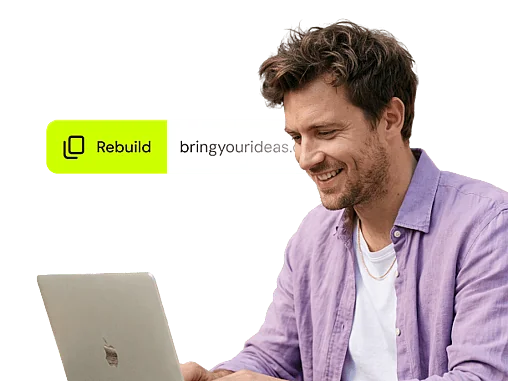
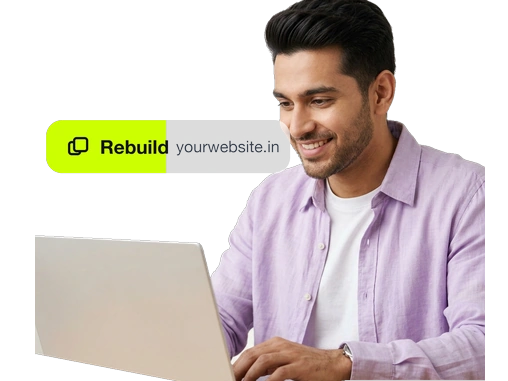
feat: localize cloner url card with stylish Indian entrepreneur, unbranded laptop, and yourwebsite.in URL bar

diff --git a/index.html b/index.html
@@ -1331,12 +1331,12 @@
                       </div>
                     </div>
                     <div class="h-image h-mixed-one-third-card__media h-mixed-one-third-card__desktop-image"><img
-                        class="" style="" src="./assets/images/card-business-seo-desktop.png"
-                        srcset="./assets/images/card-business-seo-desktop.png" alt="Local SEO for Siliguri businesses"
+                        class="" style="" src="./assets/images/card-google-local-desktop.webp"
+                        srcset="./assets/images/card-google-local-desktop.webp" alt="Local SEO for Siliguri businesses"
                         loading="lazy" fetchpriority="low"></div>
                     <div class="h-image h-mixed-one-third-card__mobile-image"><img class="" style=""
-                        src="./assets/images/card-business-seo-mobile.webp"
-                        srcset="./assets/images/card-business-seo-mobile.webp" alt="" loading="lazy"
+                        src="./assets/images/card-google-local-mobile.webp"
+                        srcset="./assets/images/card-google-local-mobile.webp" alt="" loading="lazy"
                         fetchpriority="low"></div>
                   </div>
                 </div>
@@ -1439,12 +1439,12 @@
                       <div class="h-t-body-1">See enquiries, admissions and payments in one simple dashboard.</div>
                     </div>
                     <div class="h-image h-mixed-large-card__image h-mixed-large-card__desktop-image"><img class=""
-                        style="" src="./assets/images/card-membership-manage-desktop.png"
-                        srcset="./assets/images/card-membership-manage-desktop.png"
+                        style="" src="./assets/images/card-students-fees-desktop.webp"
+                        srcset="./assets/images/card-students-fees-desktop.webp"
                         alt="Student and member management dashboard" loading="lazy" fetchpriority="low"></div>
                     <div class="h-image h-mixed-large-card__mobile-image"><img class="" style=""
-                        src="./assets/images/card-membership-manage-desktop.png"
-                        srcset="./assets/images/card-membership-manage-desktop.png" alt="" loading="lazy"
+                        src="./assets/images/card-students-fees-mobile.webp"
+                        srcset="./assets/images/card-students-fees-mobile.webp" alt="" loading="lazy"
                         fetchpriority="low"></div>
                   </div>
                 </div>
@@ -1596,12 +1596,12 @@
                       </div>
                     </div>
                     <div class="h-image h-mixed-one-third-card__media h-mixed-one-third-card__desktop-image"><img
-                        class="" style="" src="./assets/images/card-booking-reminders-desktop.webp"
-                        srcset="./assets/images/card-booking-reminders-desktop.webp" alt="Automatic booking reminders"
+                        class="" style="" src="./assets/images/card-whatsapp-reminder-desktop.webp"
+                        srcset="./assets/images/card-whatsapp-reminder-desktop.webp" alt="Automatic booking reminders"
                         loading="lazy" fetchpriority="low"></div>
                     <div class="h-image h-mixed-one-third-card__mobile-image"><img class="" style=""
-                        src="./assets/images/card-booking-reminders-mobile.webp"
-                        srcset="./assets/images/card-booking-reminders-mobile.webp" alt="" loading="lazy"
+                        src="./assets/images/card-whatsapp-reminder-mobile.webp"
+                        srcset="./assets/images/card-whatsapp-reminder-mobile.webp" alt="" loading="lazy"
                         fetchpriority="low"></div>
                   </div>
                 </div>
@@ -1615,12 +1615,12 @@
                       <div class="h-t-body-1">Sync availability with Google Calendar or your booking engine.</div>
                     </div>
                     <div class="h-image h-mixed-large-card__image h-mixed-large-card__desktop-image"><img class=""
-                        style="" src="./assets/images/card-booking-calendar-desktop.webp"
-                        srcset="./assets/images/card-booking-calendar-desktop.webp" alt="Google Calendar booking sync"
+                        style="" src="./assets/images/card-room-availability-desktop.webp"
+                        srcset="./assets/images/card-room-availability-desktop.webp" alt="Google Calendar booking sync"
                         loading="lazy" fetchpriority="low"></div>
                     <div class="h-image h-mixed-large-card__mobile-image"><img class="" style=""
-                        src="./assets/images/card-booking-calendar-mobile.webp"
-                        srcset="./assets/images/card-booking-calendar-mobile.webp" alt="" loading="lazy"
+                        src="./assets/images/card-room-availability-mobile.webp"
+                        srcset="./assets/images/card-room-availability-mobile.webp" alt="" loading="lazy"
                         fetchpriority="low"></div>
                   </div>
                 </div>
@@ -1703,12 +1703,12 @@
                         desktops.</div>
                     </div>
                     <div class="h-image h-mixed-large-card__image h-mixed-large-card__desktop-image"><img class=""
-                        style="" src="./assets/images/card-interactive-responsive-desktop.webp"
-                        srcset="./assets/images/card-interactive-responsive-desktop.webp"
+                        style="" src="./assets/images/card-webapp-responsive-desktop.webp"
+                        srcset="./assets/images/card-webapp-responsive-desktop.webp"
                         alt="Mobile-friendly responsive website design" loading="lazy" fetchpriority="low"></div>
                     <div class="h-image h-mixed-large-card__mobile-image"><img class="" style=""
-                        src="./assets/images/card-interactive-responsive-mobile.webp"
-                        srcset="./assets/images/card-interactive-responsive-mobile.webp" alt="" loading="lazy"
+                        src="./assets/images/card-webapp-responsive-mobile.webp"
+                        srcset="./assets/images/card-webapp-responsive-mobile.webp" alt="" loading="lazy"
                         fetchpriority="low"></div>
                   </div>
                 </div>
@@ -1724,12 +1724,12 @@
                       </div>
                       <div class="h-mixed-two-third-card__right">
                         <div class="h-image h-mixed-two-third-card__desktop-image"><img class="" style=""
-                            src="./assets/images/card-cloner-url-desktop.webp"
-                            srcset="./assets/images/card-cloner-url-desktop.webp" alt="Website redesign in Siliguri"
+                            src="./assets/images/card-cloner-url-desktop.webp?v=indian1"
+                            srcset="./assets/images/card-cloner-url-desktop.webp?v=indian1" alt="Website redesign in Siliguri"
                             loading="lazy" fetchpriority="low"></div>
                         <div class="h-image h-mixed-two-third-card__mobile-image"><img class="" style=""
-                            src="./assets/images/card-cloner-url-mobile.webp"
-                            srcset="./assets/images/card-cloner-url-mobile.webp" alt="" loading="lazy"
+                            src="./assets/images/card-cloner-url-mobile.webp?v=indian1"
+                            srcset="./assets/images/card-cloner-url-mobile.webp?v=indian1" alt="" loading="lazy"
                             fetchpriority="low"></div>
                       </div>
                     </div>
@@ -1791,12 +1791,12 @@
                         Google rankings.</div>
                     </div>
                     <div class="h-image h-mixed-large-card__image h-mixed-large-card__desktop-image"><img class=""
-                        style="" src="./assets/images/card-cloner-redesign-desktop.webp?v=2"
-                        srcset="./assets/images/card-cloner-redesign-desktop.webp?v=2" alt="Old website redesign"
+                        style="" src="./assets/images/card-redesign-old-new-desktop.webp"
+                        srcset="./assets/images/card-redesign-old-new-desktop.webp" alt="Old website redesign"
                         loading="lazy" fetchpriority="low"></div>
                     <div class="h-image h-mixed-large-card__mobile-image"><img class="" style=""
-                        src="./assets/images/card-cloner-redesign-mobile.webp?v=2"
-                        srcset="./assets/images/card-cloner-redesign-mobile.webp?v=2" alt="" loading="lazy"
+                        src="./assets/images/card-redesign-old-new-mobile.webp"
+                        srcset="./assets/images/card-redesign-old-new-mobile.webp" alt="" loading="lazy"
                         fetchpriority="low"></div>
                   </div>
                 </div>
@@ -4083,7 +4083,7 @@
   </div>
 
   <div id="teleports"></div>
-  <a href="https://wa.me/918617513004?text=Hi%20I%20want%20to%20know%20more"
+  <a href="https://wa.me/918617513004?text=Hi%20Digital%20Grove%20%F0%9F%91%8B%0AI%20saw%20your%20ad%20for%20website%20design%20in%20Siliguri.%0AI%27d%20like%20a%20free%20quote%20for%20my%20business%20website.%0AMy%20business%3A%20"
      target="_blank"
      rel="noopener noreferrer"
      aria-label="Chat on WhatsApp"
